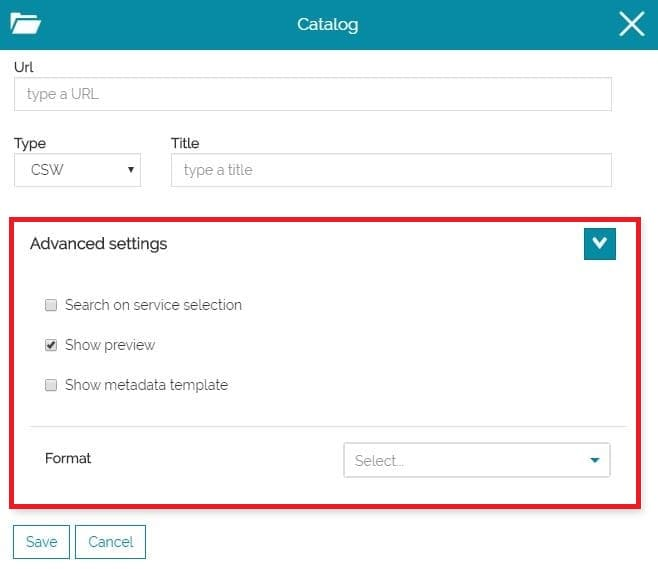
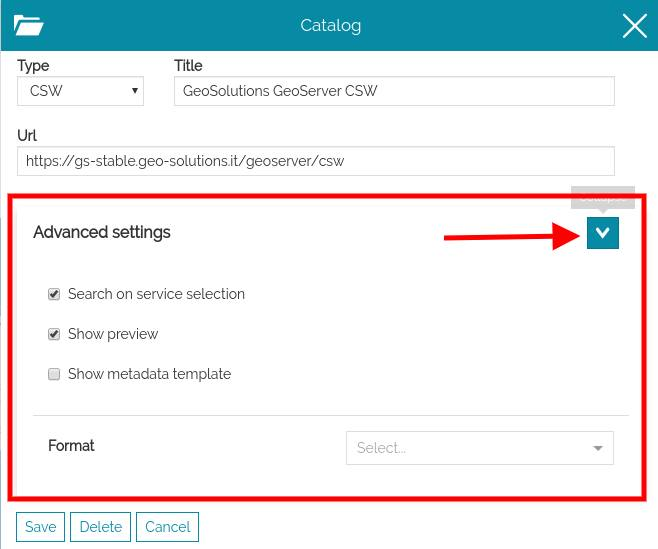
WIP doc for TMS

diff --git a/web/client/plugins/MetadataExplorer.jsx b/web/client/plugins/MetadataExplorer.jsx
@@ -233,7 +233,7 @@ const MetadataExplorerPlugin = connect(metadataExplorerSelector, {
 const API = require('../api/catalog').default;
 
 /**
- * MetadataExplorer (Catalog) plugin. Shows the catalogs results (CSW, WMS and WMTS).
+ * MetadataExplorer (Catalog) plugin. Shows the catalogs results (CSW, WMS, WMTS and TMS).
  * Some useful flags in `localConfig.json`:
  * - `noCreditsFromCatalog`: avoid add credits (attribution) from catalog
  *

diff --git a/docs/user-guide/catalog.md b/docs/user-guide/catalog.md
@@ -1,7 +1,4 @@
 # Catalog Services
-******************
-
-The Catalog Service for the Web (CSW) is an [OGC Standard](https://www.ogc.org/standards) used to publish and search geospatial data and related metadata on the internet. It describes geospatial services such as Web Map Service (WMS) and Web Map Tile Service (WMTS).
 
 In [MapStore](https://mapstore.geo-solutions.it/mapstore/#/) the Catalog offers the possibility to access CSW, WMS and WMTS Remote Services and to add the related layers to the map. By default, as soon as a user opens the Catalog, a CSW a WMS and a WMTS Demo Services are available, allowing to import layers from the GeoSolutions GeoServer.
 The user can access the Catalog with a click on the <img src="../img/button/catalog-option.jpg" class="ms-docbutton" style="max-height:25px;" /> option present in [Burger Menu](menu-bar.md#burger-menu) <img src="../img/button/burger.jpg" class="ms-docbutton" />. As soon as you open it, the first display is like the following:
@@ -29,53 +26,60 @@ By clicking on the <img src="../img/button/add_to_map_button.jpg" class="ms-docb
 
 ## Managing Remote Services
 
-[MapStore](https://mapstore.geo-solutions.it/mapstore/#/) allows also to add new Remote Services to the map project (<img src="../img/button/+.jpg" class="ms-docbutton"/>) or Edit/Remove the existing ones (<img src="../img/button/edit-service.jpg" class="ms-docbutton" />). 
+[MapStore](https://mapstore.geo-solutions.it/mapstore/#/) allows also to add new Remote Services to the map project (<img src="../img/button/+.jpg" class="ms-docbutton"/>) or Edit/Remove the existing ones (<img src="../img/button/edit-service.jpg" class="ms-docbutton" />).
 
 <img src="../img/catalog/add_edit_services.jpg" class="ms-docimage"  style="max-width:600px;"/>
 
 The adding/editing process is very similar and the only difference is that editing an existing Service the input fields will be already filled with its settings, while adding a new one all the fields will be empty. Moreover only editing an existing Service, it will be possible to remove it from the Services list.<br>
-Editing an existing Service, for example, the first display is the following: 
+Editing an existing Service, for example, the first display is the following:
 
 <img src="../img/catalog/new_service.jpg" class="ms-docimage"  style="max-width:600px;"/>
 
 From here the user is allowed to set the Service options, that can be divided into:
 
-* **General settings**
-
+* **General Settings**
 * **Advanced Settings**
 
-Once the options are properly set, it is possible to <img src="../img/button/save_service.jpg" class="ms-docbutton"/> the Service. If the user wants to discard the edits, instead, there's the <img src="../img/button/cancel_service.jpg" class="ms-docbutton"/> button. 
+Once the options are properly set, it is possible to <img src="../img/button/save_service.jpg" class="ms-docbutton"/> the Service. If the user wants to discard the edits, instead, there's the <img src="../img/button/cancel_service.jpg" class="ms-docbutton"/> button.
 An existing Service can finally be removed from the Services list through the <img src="../img/button/delete_service.jpg" class="ms-docbutton"/> button (this option is not available creating a new Remote Service).
 
-### General settings
-
-The general settings are three mandatory fields that each Remote Service needs to have:
+The **General Settings** contains the mandatory fields that each catalog service needs, depending on the catalog type.
 
 <img src="../img/catalog/general_settings.jpg" class="ms-docimage"  style="max-width:600px;"/>
 
-In particular:
+The following settings are valid for all the catalog service types:
 
-* **Url**
+* **Type** you can select one of *CSW*, *WMS*, *TMS* and *WMTS*.
+* **Title**: The title to assign to the catalog. This text will be used in the service selection dropdown menu for this service.
 
-* **Type** (between *CSW*, *WMS* and *WMTS*)
+Many services like CSW, WMS, WMTS, TMS (provider 1.0.0) catalog services need also the base **URL** to the service you want to query.
 
-* **Title**
-
-### Advanced settings
-
-The Advances settings section opens by clicking on the <img src="../img/button/expand_card_icon.jpg" class="ms-docbutton"/> icon:
+The **Advances Settings** section opens by clicking on the <img src="../img/button/expand_card_icon.jpg" class="ms-docbutton"/> icon:
 
 <img src="../img/catalog/advanced_settings.jpg" class="ms-docimage"  style="max-width:500px;" />
 
-Here the user can set the following options:
+The content of Advanced settings depends on the catalog type, but some options are common to all the services types:
 
-* *Search on service selection* that allow to enable/disable the automatic loading of the catalog records when the user opens that Service 
-
+* *Search on service selection* that allow to enable/disable the automatic loading of the catalog records when the user opens that Service
 * *Show preview* that can show/hide layers thumbnails in Catalog
 
-* Change the *Format* of the image that will be rendered on the map (`png`, `png8`, `jpeg`, `vnd.jpeg-png` or `gif`) for layers belonging to the selected source
+In case of CSW catalogs, the user can edit the following options:
 
-* *Show metadata template* can be enabled when the user wants to insert in the layer description a text with metadata information 
+## Catalog Types
+
+### CSW Catalog
+
+The Catalog Service for the Web (CSW) is an [OGC Standard](https://www.ogc.org/standards) used to publish and search geospatial data and related metadata on the internet. It describes geospatial services such as Web Map Service (WMS), Web Map Tile Service (WMTS) and so on...
+MapStore actually supports only the **Dublin Core** metadata schemas. *ISO Metadata Profile is not supported yet*.
+
+In **general settings of**  CSW service the user can specify the title to assign to this service and the URL of the service.
+
+<img src="../img/catalog/general_settings.jpg" class="ms-docimage"  style="max-width:600px;"/>
+
+#### Advanced Settings
+
+* *Format*: the default image format for the layers added to the map (`png`, `png8`, `jpeg`, `vnd.jpeg-png` or `gif`). Setting this is particularly useful when the user wants to use optimized formats by default (`png8`, `vnd.jpeg-png`) for all the layers, without having to select it for each layer in layer settings.
+* *Show metadata template*: This can be enabled when the user wants to insert in the layer description a text with metadata information
 
 !!! warning
     The *Metadata Template* function is available for **CSW Services** only.
@@ -92,37 +96,35 @@ Enabling the *Show metadata template* option appears a text editor through witch
 
 In this case it is possible to add a text like the following, in order to present desired metadata properties:
 
-```
-title: ${title}
--------------------
-description: ${description}
--------------------
-abstract: ${abstract}
--------------------
-boundingBox: ${boundingBox}
--------------------
-contributor: ${contributor}
--------------------
-creator: ${creator}
--------------------
-format: ${format}
--------------------
-identifier: ${identifier}
--------------------
-references: ${references}
--------------------
-rights: ${rights}
--------------------
-source: ${source}
--------------------
-subject: ${subject}
--------------------
-temporal: ${temporal}
--------------------
-type: ${type}
--------------------
-uri: ${uri}
-```
+    title: ${title}
+    -------------------
+    description: ${description}
+    -------------------
+    abstract: ${abstract}
+    -------------------
+    boundingBox: ${boundingBox}
+    -------------------
+    contributor: ${contributor}
+    -------------------
+    creator: ${creator}
+    -------------------
+    format: ${format}
+    -------------------
+    identifier: ${identifier}
+    -------------------
+    references: ${references}
+    -------------------
+    rights: ${rights}
+    -------------------
+    source: ${source}
+    -------------------
+    subject: ${subject}
+    -------------------
+    temporal: ${temporal}
+    -------------------
+    type: ${type}
+    -------------------
+    uri: ${uri}
 
 Inserting this text and saving, the result should be that each layer will show its properties in catalog with the format we set:
 
@@ -130,3 +132,26 @@ Inserting this text and saving, the result should be that each layer will show i
 
 !!! note
     If some metadata are missing, the server response will be `source Not Available`
+
+### WMS/WMTS Catalog
+
+WMS and WMTS Services are [OGC Standards](https://www.ogc.org/standards) protocol for publishing maps (and tile maps) on the Internet. The user can add these kind of services as catalogs to browse and add to the map the layers published using these protocols.
+
+In **General Settings** the user can set the title he wants to assign to this service and the URL of the service to configure the service.
+
+In **Advanced Settings** the user can set, other than the standard options, also the default format.
+
+### TMS Catalog
+
+TMS Catalog type includes some not official standard protocol for serving maps as tiles (i.e. splitting map up into a pyramid of images at multiple zoom levels). MapStore allows to add to the map the following services:
+
+* Custom TMS service, specifying the URL template.
+* TMS 1.0.0 [Tile Map Service](https://wiki.osgeo.org/wiki/Tile_Map_Service_Specification), setting the URL
+* Select from a list known TMS services, with all the variants.
+
+### Well Known Services
+
+The well known services is a static list of services Coming from `ConfigProvider.js
+
+!!! note
+   Because these services are not standard, using these services is not fully supported switching CRS.

diff --git a/docs/developer-guide/maps-configuration.md b/docs/developer-guide/maps-configuration.md
@@ -529,6 +529,23 @@ Options passed in configuration object, if already configured by TileProvider,  
 
 Openlayers' TileProvider at the moment doesn't support `minZoom` configuration property and high resolution map.
 
+In case of missing `provider` or if `provider: "custom"`, the tile provider can be customized and configured internally.
+You can configure the `url` as a template, than you can configure options add specific options (`maxNativeZoom`, `subdomains`).
+
+```javascript
+{
+    "type": "tileprovider",
+    "title": "Title",
+    "provider": "custom", // or undefined
+    "name": "Name",
+    "group": "GroupName",
+    "visibility": false,
+    "url": "https://{s}.tile.openstreetmap.org/{z}/{x}/{y}.png",
+    "options": {
+        "subdomains": [ "a", "b"]
+    }
+}
+
 ##### Providers and variants
 
 This is a *not maintained* list of providers and variants. For the most updated list check the code [here](https://github.com/geosolutions-it/MapStore2/blob/master/web/client/utils/ConfigProvider.js)
